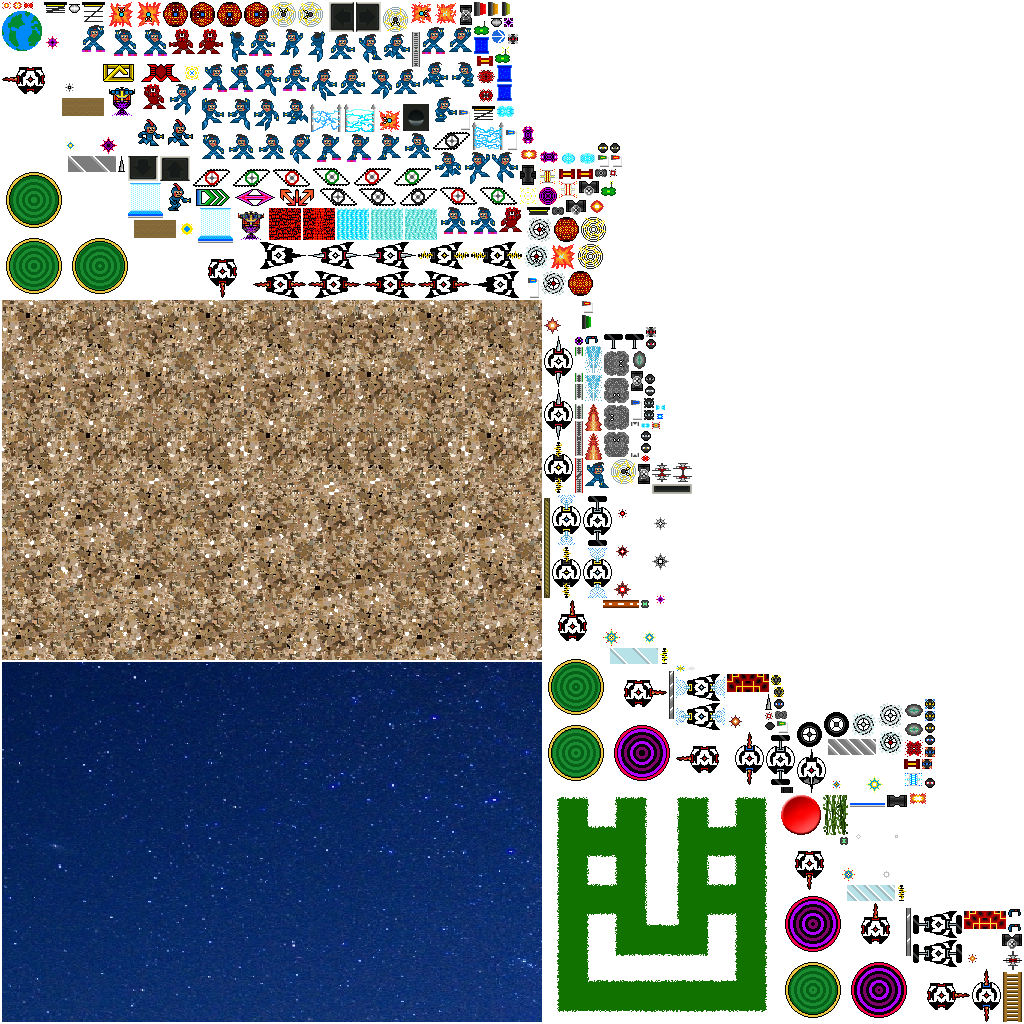
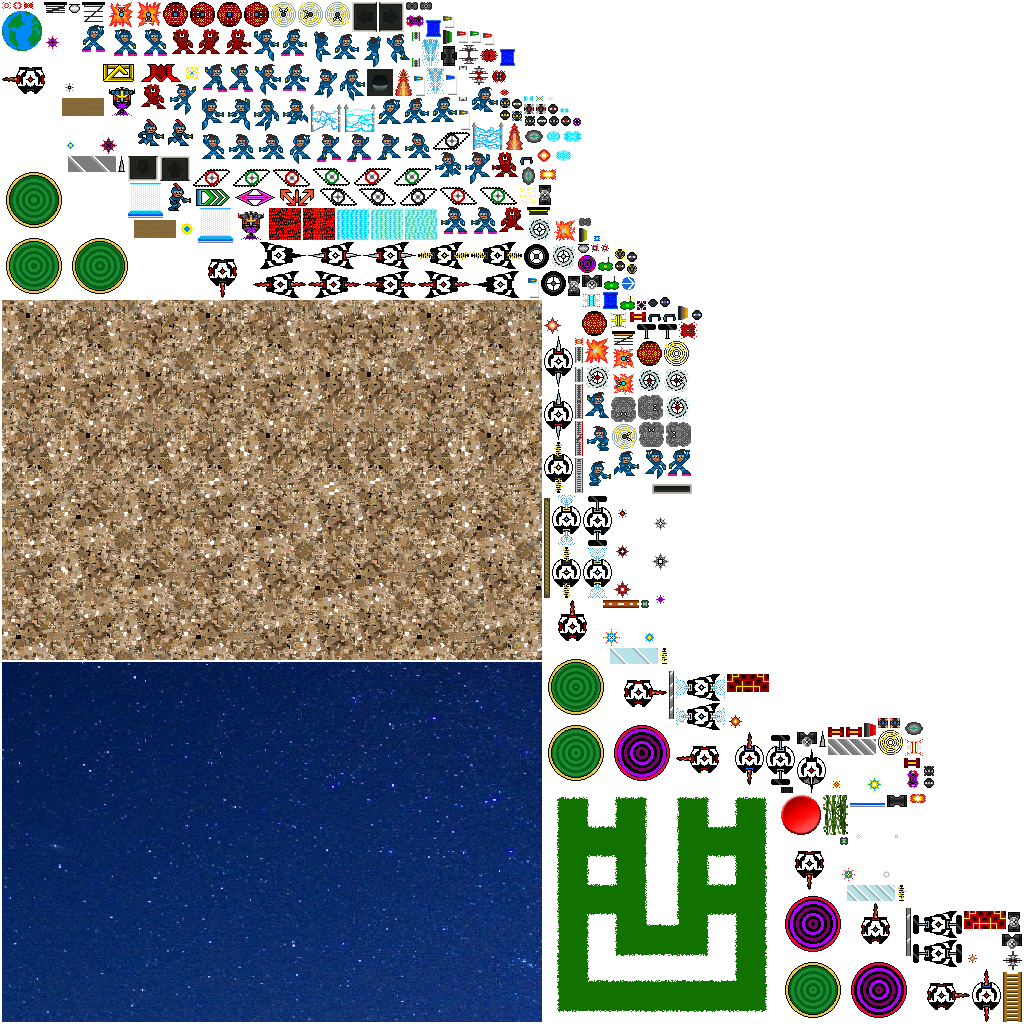
added lookup fall sprites

Changed region(s): [[0.2188, 0.0, 0.6875, 0.5], [0.75, 0.6562, 0.9375, 0.7812], [0.9688, 0.875, 1.0, 0.9062]]

diff --git a/core/src/com/udacity/gamedev/gigagal/entity/Boss.java b/core/src/com/udacity/gamedev/gigagal/entity/Boss.java
@@ -1335,7 +1335,7 @@ public class Boss extends Hazard implements Destructible, Humanoid {
                 if (directionY == Direction.UP) {
                     region = Assets.getInstance().getBossAssets().liquidLookupStandRight;
                     if (action == Action.FALLING || action == Action.CLIMBING) {
-                        region = Assets.getInstance().getGigaGalAssets().lookupFallRight;
+                        region = Assets.getInstance().getBossAssets().liquidLookupFallRight;
                     } else if (action == Action.HOVERING) {
                         region = Assets.getInstance().getGigaGalAssets().lookupHoverRight.getKeyFrame(hoverTimeSeconds);
                     }
@@ -1383,7 +1383,7 @@ public class Boss extends Hazard implements Destructible, Humanoid {
                 if (directionY == Direction.UP) {
                     region = Assets.getInstance().getBossAssets().liquidLookupStandLeft;
                     if (action == Action.FALLING || action == Action.CLIMBING) {
-                        region = Assets.getInstance().getGigaGalAssets().lookupFallLeft;
+                        region = Assets.getInstance().getBossAssets().liquidLookupFallLeft;
                     } else if (action == Action.HOVERING) {
                         region = Assets.getInstance().getGigaGalAssets().lookupHoverLeft.getKeyFrame(hoverTimeSeconds);
                     }

diff --git a/core/src/com/udacity/gamedev/gigagal/util/Assets.java b/core/src/com/udacity/gamedev/gigagal/util/Assets.java
@@ -239,12 +239,16 @@ public final class Assets implements AssetErrorListener {
         public final AtlasRegion liquidStandRight;
         public final AtlasRegion liquidLookupStandLeft;
         public final AtlasRegion liquidLookupStandRight;
+        public final AtlasRegion liquidLookupFallLeft;
+        public final AtlasRegion liquidLookupFallRight;
 
         private BossAssets(TextureAtlas atlas) {
             liquidStandLeft = atlas.findRegion(Constants.BOSS_LIQUID_STAND_LEFT);
             liquidStandRight = atlas.findRegion(Constants.BOSS_LIQUID_STAND_RIGHT);
             liquidLookupStandLeft = atlas.findRegion(Constants.BOSS_LIQUID_LOOKUP_STAND_LEFT);
             liquidLookupStandRight = atlas.findRegion(Constants.BOSS_LIQUID_LOOKUP_STAND_RIGHT);
+            liquidLookupFallLeft = atlas.findRegion(Constants.BOSS_LIQUID_LOOKUP_FALL_LEFT);
+            liquidLookupFallRight = atlas.findRegion(Constants.BOSS_LIQUID_LOOKUP_FALL_RIGHT);
         }
     }
 

diff --git a/core/src/com/udacity/gamedev/gigagal/util/Constants.java b/core/src/com/udacity/gamedev/gigagal/util/Constants.java
@@ -148,6 +148,8 @@ public final class Constants {
     public static final String BOSS_LIQUID_STAND_RIGHT = "boss-liquid-stand-right";
     public static final String BOSS_LIQUID_LOOKUP_STAND_LEFT = "boss-liquid-lookup-stand-left";
     public static final String BOSS_LIQUID_LOOKUP_STAND_RIGHT = "boss-liquid-lookup-stand-right";
+    public static final String BOSS_LIQUID_LOOKUP_FALL_LEFT = "boss-liquid-lookup-fall-left";
+    public static final String BOSS_LIQUID_LOOKUP_FALL_RIGHT = "boss-liquid-lookup-fall-right";
 
     // Background
     public static final String BACKGROUND_HOME_SPRITE = "background-home";
